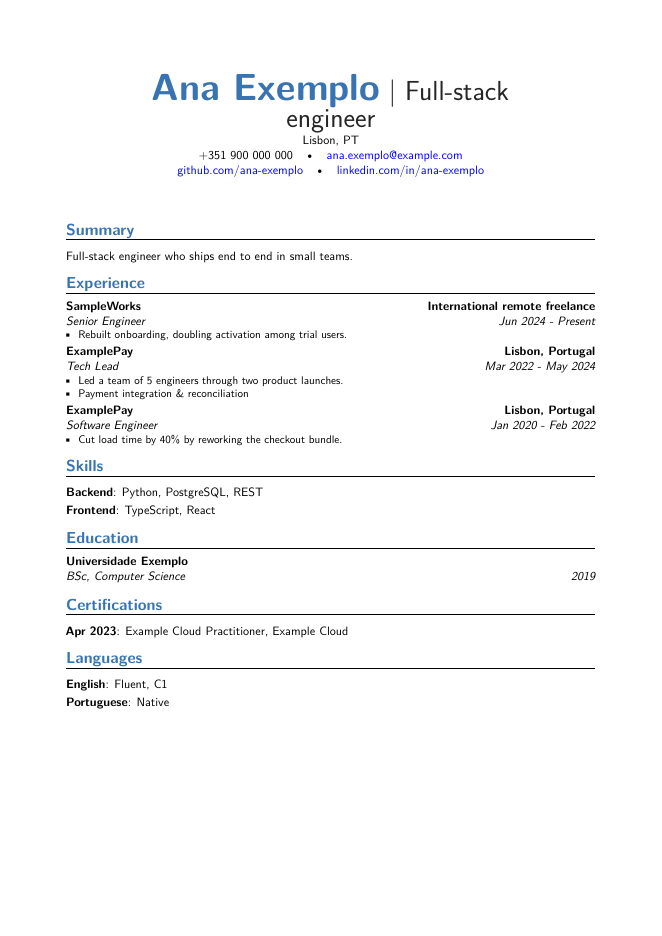
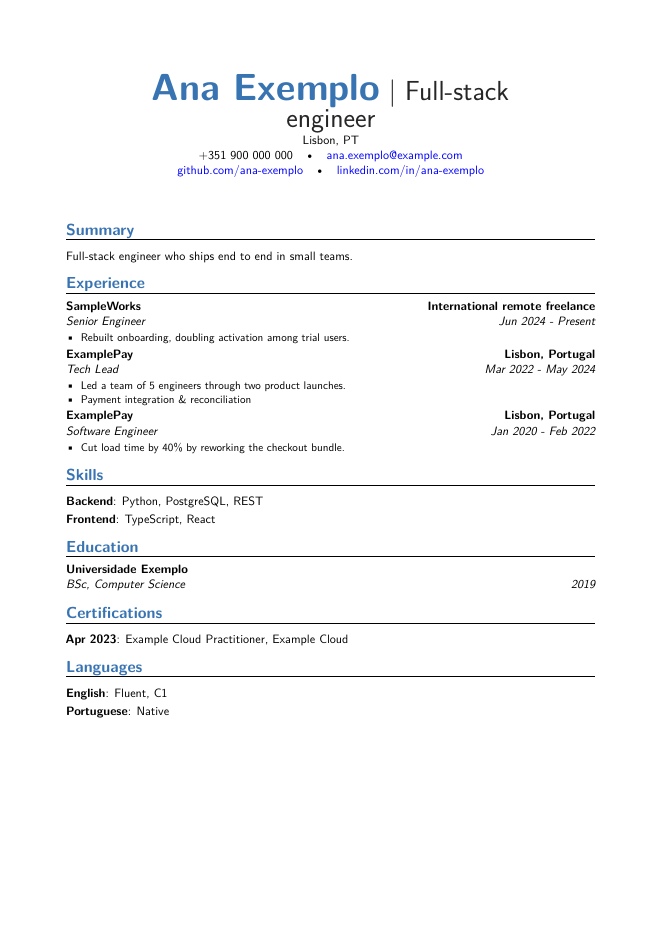
fix: break long CV entries between bullets and keep headings with their content

diff --git a/tests/test_cv_layout.py b/tests/test_cv_layout.py
@@ -53,17 +53,22 @@ def _long_master() -> dict:
                                for k in range(1 + i % 5)],
             }],
         })
+    master["work"][3]["positions"][0]["highlights"] = [
+        {"id": f"h-long-{k}", "impact": f"{bullet} ({k}).", "angles": ["team-lead"]} for k in range(24)]
     return master
 
 
 @pytest.mark.latex
-def test_long_master_cv_has_no_orphaned_entry_headers(cfg, tmp_path, capsys):
+def test_long_master_cv_breaks_pages_cleanly(cfg, tmp_path, capsys):
+    """Entries keep their header with the first bullets, and a long entry breaks between
+    bullets instead of leaving a hole, so only advisory notes may be reported."""
     if not cfg.lualatex:
         pytest.skip("no lualatex engine")
     master = tmp_path / "long.yaml"
     master.write_text(yaml.safe_dump(_long_master(), allow_unicode=True), encoding="utf-8")
     assert main(["master-cv", str(master), "--lang", "en", "--out", str(tmp_path / "out")]) == 0
     out = capsys.readouterr().out
-    pages = int(out.split("ok (")[-1].split(" page")[0]) if "ok (" in out else 0
+    assert "Master CV (informational): ok (" in out, out
+    pages = int(out.split("ok (")[-1].split(" page")[0])
     assert pages >= 3, out
-    assert "orphaned" not in out and "ends on" not in out, out
+    assert [line for line in out.splitlines() if line.startswith("  - layout:")] == [], out

diff --git a/tests/test_render_cv.py b/tests/test_render_cv.py
@@ -176,7 +176,7 @@ def test_empty_bullets_have_no_itemize():
     tailored = copy.deepcopy(T)
     tailored["experience"][0]["positions"][0]["bullets"] = []
     tex = render_cv(tailored, M)
-    assert tex.count(r"\begin{itemize}") == 2 and tex.count(r"\end{itemize}") == 2
+    assert tex.count(r"\begin{cvbullets}") == 2 and tex.count(r"\end{cvbullets}") == 2
 
 
 def test_format_date_malformed_names_item():
